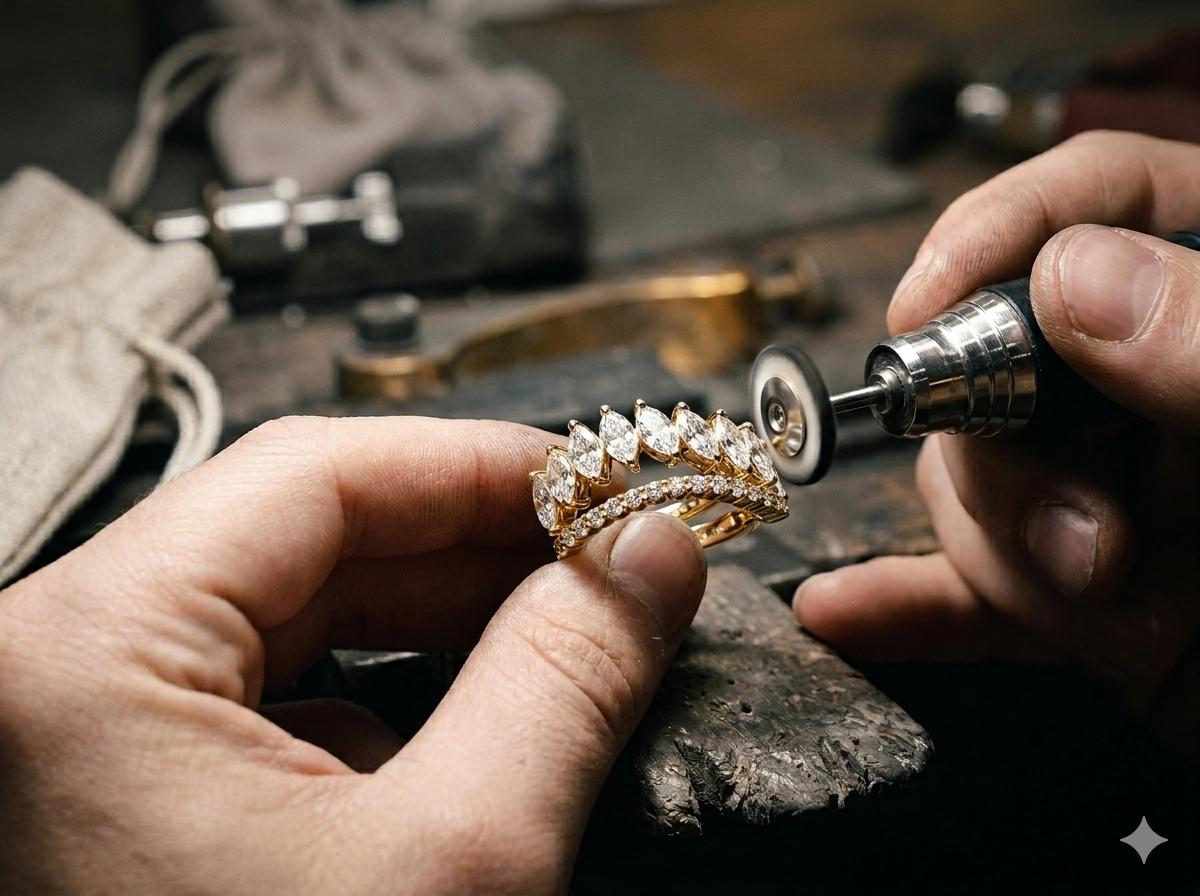
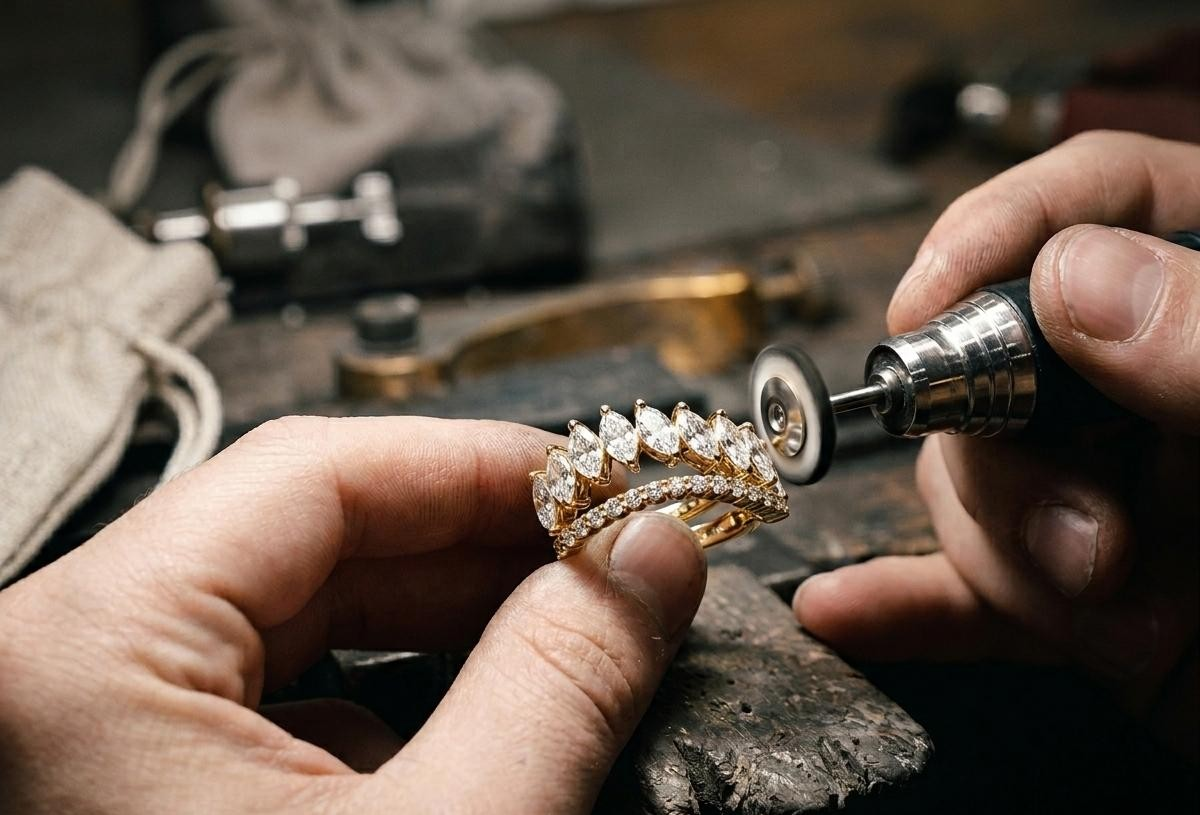
Implement UI chnages in Hero Custom Catalog

diff --git a/src/pages/Catalog.tsx b/src/pages/Catalog.tsx
@@ -8,32 +8,77 @@ import {
   eyebrowClass,
 } from '../styles'
 
-const catalogPieces = [
-  {
-    src: './product2.jpeg',
-    alt: 'Diamond',
-  },
-  {
-    src: 'https://catalog.carpediam.in/api/image-proxy?module=Product_Variants&id=1105156000003557320&attachment_id=1105156000003557324',
-    alt: 'Diamond floral necklace on warm satin',
-  },
-  {
-    src: './product1.jpeg',
-    alt: 'Diamond eternity ring on satin',
-  },
-  {
-    src: 'https://catalog.carpediam.in/api/image-proxy?module=Product_Variants&id=1105156000003087221&attachment_id=1105156000004861287',
-    alt: 'Diamond floral necklace on white satin',
-  },
-  {
-    src: 'https://catalog.carpediam.in/api/image-proxy?module=Product_Variants&id=1105156000003108005&attachment_id=1105156000003260346',
-    alt: 'Diamond',
-  },
-  {
-    src: 'https://catalog.carpediam.in/api/image-proxy?module=Product_Variants&id=1105156000003108517&attachment_id=1105156000004861217',
-    alt: 'Diamond eternity ring on satin',
-  },
-]
+const catalogPieces =
+  [
+    {
+      src: 'https://catalog.carpediam.in/api/image-proxy?module=Product_Variants&id=1105156000003141150&attachment_id=1105156000005094121',
+      alt: 'Diamond bracelet',
+    },
+    {
+      src: './product2.jpeg',
+      alt: 'Diamond',
+    },
+    {
+      src: 'https://catalog.carpediam.in/api/image-proxy?module=Product_Variants&id=1105156000003557320&attachment_id=1105156000003557324',
+      alt: 'Diamond floral necklace on warm satin',
+    },
+    {
+      src: 'https://catalog.carpediam.in/api/image-proxy?module=Product_Variants&id=1105156000004248091&attachment_id=1105156000004364179',
+      alt: 'Diamond jewelry close-up',
+    },
+    {
+      src: './product1.jpeg',
+      alt: 'Diamond eternity ring on satin',
+    },
+    {
+      src: 'https://catalog.carpediam.in/api/image-proxy?module=Product_Variants&id=1105156000003055187&attachment_id=1105156000003548586',
+      alt: 'Luxury diamond jewelry',
+    },
+    {
+      src: 'https://catalog.carpediam.in/api/image-proxy?module=Product_Variants&id=1105156000003108149&attachment_id=1105156000003108154',
+      alt: 'Diamond necklace',
+    },
+    {
+      src: 'https://catalog.carpediam.in/api/image-proxy?module=Product_Variants&id=1105156000003087221&attachment_id=1105156000004861287',
+      alt: 'Diamond floral necklace on white satin',
+    },
+    {
+      src: 'https://catalog.carpediam.in/api/image-proxy?module=Product_Variants&id=1105156000003549184&attachment_id=1105156000005094059',
+      alt: 'Diamond pendant',
+    },
+    {
+      src: 'https://catalog.carpediam.in/api/image-proxy?module=Product_Variants&id=1105156000003108005&attachment_id=1105156000003260346',
+      alt: 'Diamond',
+    },
+    {
+      src: 'https://catalog.carpediam.in/api/image-proxy?module=Product_Variants&id=1105156000003557284&attachment_id=1105156000004182003',
+      alt: 'Diamond earrings',
+    },
+    {
+      src: 'https://catalog.carpediam.in/api/image-proxy?module=Product_Variants&id=1105156000003137035&attachment_id=1105156000005094004',
+      alt: 'Diamond ring detail',
+    },
+    {
+      src: 'https://catalog.carpediam.in/api/image-proxy?module=Product_Variants&id=1105156000003108517&attachment_id=1105156000004861217',
+      alt: 'Diamond eternity ring on satin',
+    },
+    {
+      src: 'https://catalog.carpediam.in/api/image-proxy?module=Product_Variants&id=1105156000003141250&attachment_id=1105156000004861037',
+      alt: 'Elegant diamond jewelry',
+    },
+    {
+      src: 'https://catalog.carpediam.in/api/image-proxy?module=Product_Variants&id=1105156000004248534&attachment_id=1105156000004364036',
+      alt: 'Diamond eternity ring on satin',
+    },
+    {
+      src: 'https://catalog.carpediam.in/api/image-proxy?module=Product_Variants&id=1105156000003557284&attachment_id=1105156000004182003',
+      alt: 'Diamond earrings',
+    },
+    {
+      src: 'https://catalog.carpediam.in/api/image-proxy?module=Product_Variants&id=1105156000004248534&attachment_id=1105156000004364036',
+      alt: 'Diamond eternity ring on satin',
+    },
+  ]
 
 const CatalogMarquee = () => {
   const trackRef = useRef<HTMLDivElement>(null)
@@ -112,19 +157,19 @@ const CatalogMarquee = () => {
     <section className="relative overflow-hidden">
       <div
         ref={trackRef}
-        className="flex min-h-[420px] cursor-grab touch-pan-y select-none gap-px lg:min-h-[520px]"
+        className="flex min-h-[520px] cursor-grab touch-pan-y select-none gap-px lg:min-h-[640px]"
       >
         {[...catalogPieces, ...catalogPieces].map((piece, index) => (
           <article
             key={`${piece.src}-${index}`}
-            className="flex min-h-[360px] w-[80vw] shrink-0 items-center justify-center sm:min-h-[520px] sm:w-[33.333vw]"
+            className="flex h-[520px] w-[80vw] shrink-0 items-center justify-center sm:h-[640px] lg:h-[700px] sm:w-[33.333vw]"
           >
             <div className="h-full w-full p-4 sm:p-6">
               <img
                 src={piece.src}
                 alt={piece.alt}
                 draggable={false}
-                className="h-full w-full object-contain"
+                className="h-full w-full object-cover"
               />
             </div>
           </article>
@@ -137,15 +182,15 @@ const CatalogMarquee = () => {
 const Catalog = () => {
   return (
     <main className="min-h-screen bg-white text-neutral-950">
-      <section className="relative h-[440px] min-h-[440px] overflow-hidden bg-neutral-950 sm:h-[540px] lg:h-[560px]">
+      <section className="relative h-[700px] min-h-[440px] overflow-hidden bg-neutral-950 sm:h-[540px] lg:h-[560px]">
         <img
-          src="/catalog-new.png"
+          src="/catalog-new-2.png"
           alt="Diamond necklace on satin fabric"
           className="absolute inset-0 h-full w-full object-cover"
         />
         <div className="absolute inset-0 bg-neutral-950/40" />
 
-        <div className={`${containerClass} relative z-10 flex h-full items-center pt-17`}>
+        <div className={`${containerClass} relative z-10 flex h-full items-center pt-1`}>
           <h1 className={`${heroHeadingClass} max-w-[760px] text-white`}>
             Ready  <br />
             to Retail.
@@ -299,7 +344,7 @@ const Catalog = () => {
         {/* Top Banner Image */}
         <div className="w-full overflow-hidden">
           <img
-            src="https://catalog.carpediam.in/api/image-proxy?module=Product_Variants&id=1105156000003087221&attachment_id=1105156000004861287"
+            src="/new catalog.jpeg"
             alt="Diamond floral necklace on white satin"
             className="h-[320px] w-full object-cover sm:h-[420px] lg:h-[480px]"
           />

diff --git a/src/pages/HomePage.tsx b/src/pages/HomePage.tsx
@@ -94,7 +94,7 @@ const HomePage = () => {
         {/* Desktop Landscape Video */}
         <video
           className="hidden sm:block h-full w-full object-cover"
-          src="/hero.mp4"
+          src="/Final1.mp4"
           loop
           muted
           autoPlay
@@ -103,7 +103,7 @@ const HomePage = () => {
         {/* Mobile Portrait Video */}
         <video
           className="block sm:hidden w-full h-auto"
-          src="/ud potrait.mp4"
+          src="/ud-potrait.mp4"
           loop
           muted
           autoPlay
@@ -154,6 +154,8 @@ const HomePage = () => {
 
             <Link
               to="https://app.univdiam.com/signup"
+              target="_blank"
+              rel="noopener noreferrer"
               className="hidden rounded-full bg-neutral-950 px-6 py-3 text-[11px] font-semibold uppercase tracking-[0.14em] text-white transition-colors hover:bg-neutral-800 sm:inline-flex"
             >
               Join for Free

diff --git a/src/components/SiteNavigation.tsx b/src/components/SiteNavigation.tsx
@@ -51,6 +51,8 @@ const SiteNavigation = () => {
         <div className="flex items-center gap-3">
           <Link
             to="https://app.univdiam.com/signup"
+            target="_blank"
+            rel="noopener noreferrer"
             className="hidden rounded-full bg-neutral-950 px-6 py-3 text-[11px] font-semibold uppercase tracking-[0.14em] text-white transition-colors hover:bg-neutral-800 sm:inline-flex"
           >
             Retailer Login

diff --git a/src/pages/Contact.tsx b/src/pages/Contact.tsx
@@ -74,7 +74,7 @@ const Contact = () => {
         <main className="min-h-screen bg-white text-neutral-950">
             <section className="relative h-[440px] min-h-[440px] overflow-hidden bg-neutral-950 sm:h-[540px] lg:h-[560px]">
                 <img
-                    src="/contact-img.png"
+                    src="/Contact-hero.png"
                     alt="Jewelry design sketches with pencils and ring drawings"
                     className="absolute inset-0 h-full w-full object-cover"
                 />